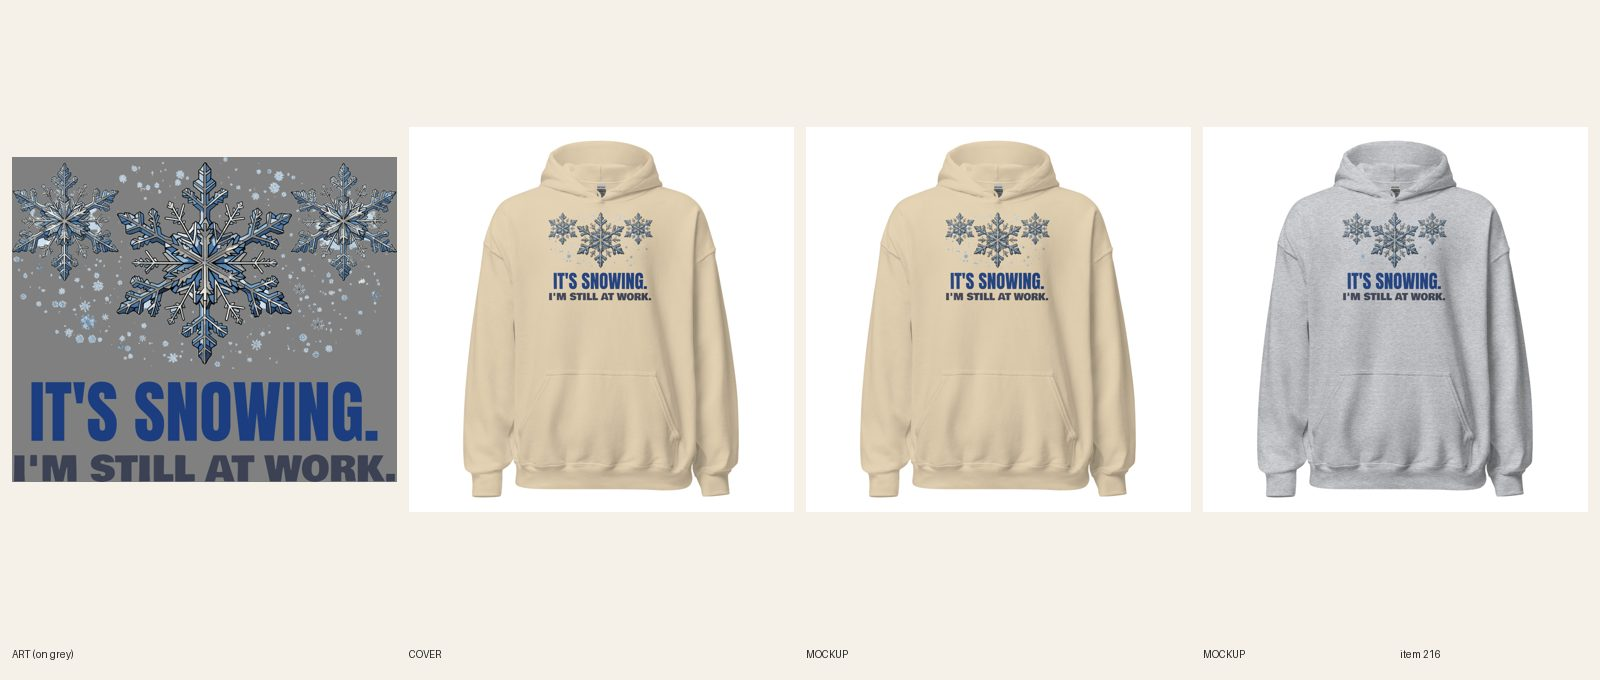
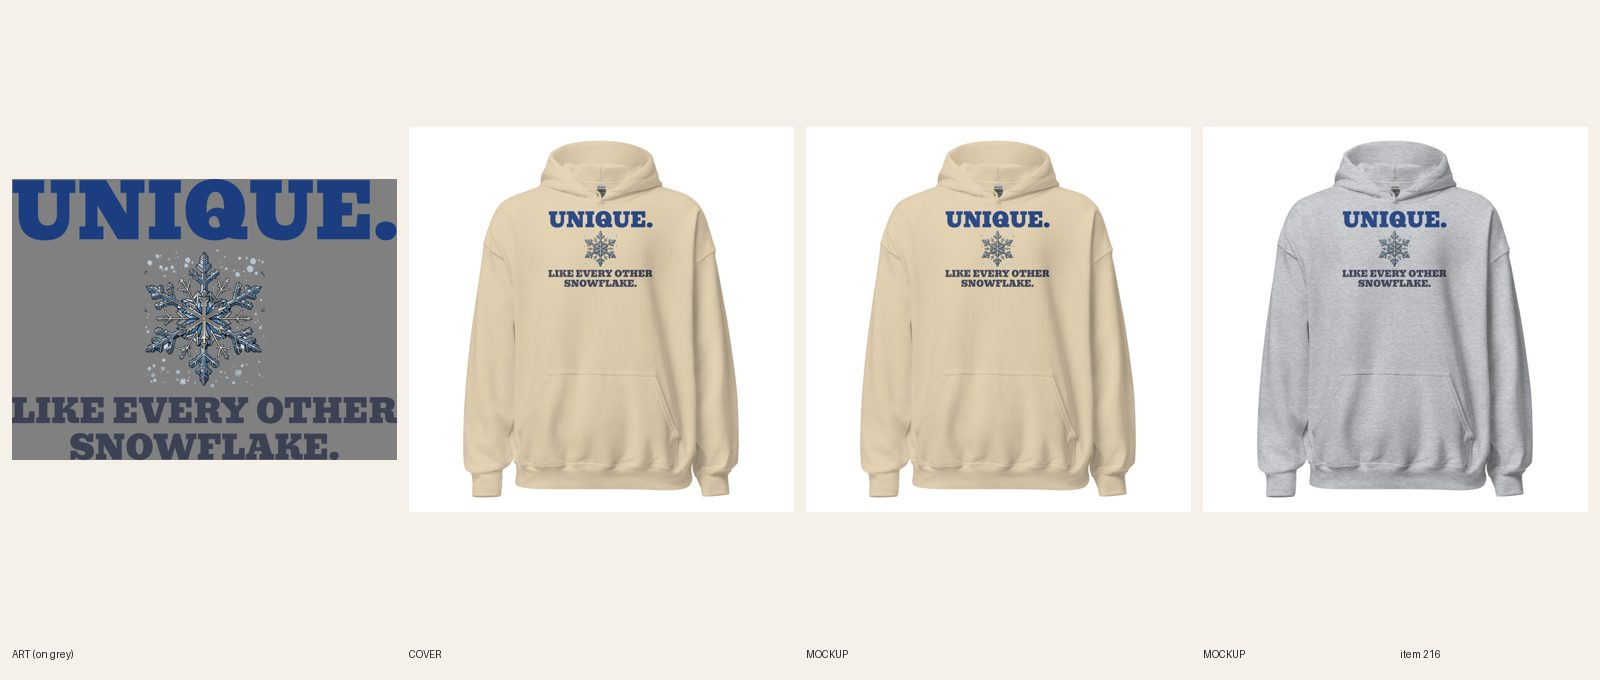
[A] review 216 (redo)
Claude-Session: https://claude.ai/code/session_01LaaEYpKaSBZd9opL7Tpo7i

diff --git a/docs/pipeline/216-christmas-hoodie-hello-winter-snowflakes.md b/docs/pipeline/216-christmas-hoodie-hello-winter-snowflakes.md
@@ -1,4 +1,4 @@
-status: BUILDING [A] 2026-10-20 11:42 UTC
+status: REVIEW
 lane: A
 type: twin
 id: 216
@@ -30,3 +30,4 @@ handle: womens-christmas-hello-winter-snowflakes-hoodie
 - 2026-10-18 17:22 UTC director: QUALITY RESET grade C (new line + type), REDO. The product stays ACTIVE (same handle, URL, title keyword). 1. Line (R3.12, quality-reset 'Lines'): "Hello Winter": Seasonal greeting, no joke; script-only type. Write 5 candidates, keep the one a stranger laughs at in 3 seconds without backstory; kill lines that only describe the picture; if none of the 5 is funny, PARK it. 2. Quality reset type bar (docs/backlog/quality-reset.md, 'The new bar'): headline at least 90% of the art width, heavy, colors pulled from the art; second line at least 45% of the headline's height, never a thin script on a dark or mid garment; use the lettering as a shape (arch, stacked lockup, words breaking into the art), not a plain bar above and a script line below; no font used on more than 1 in 6 of the last 30 designs. 3. Keep the art if it carries the new line, else one new illustration (R4/R5). New print means a new cover per R6.10, copy line one rewritten for the new joke (R8.3), and a fresh review sheet (R7.7). While quality-reset.md says PAUSED, only lane A builds, and only the samples step 2 names.
 - 2026-10-20 02:48 UTC builder [A]: REDO grade C done (new line + type). Line: IT'S SNOWING. / I'M STILL AT WORK. (5 candidates; the relatable adult-snow-day one kept). Same three-snowflake art (old script line cropped off, 3600x1980, scaled to 3250 wide), Anton headline (91% of art width) in blue + Bowlby One second line (46% of headline height, slate), lockup 3250x2792, FW 1500 TOP 0. One file for Sand and Sport Grey (dark ink only, no cream fill, so no light-file split): 1090116144. Back logo 1080398177 kept. Relinked 12/12 verified. 2 fronts replaced in place (fileUpdate, alts updated), phone-size read ok on Sand and Sport Grey. Copy: Story line one + art sentence + FAQ 1 + FAQ 2 updated, SEO title/meta updated, Dec 8 FAQ kept, no R8.3 opener. Cover: handle added to retired-covers.json (plain product shot). fal $0. audit --handle PASS 0 warn; astro build ok. Sheet docs/review/216.jpg.
 - 2026-10-20 03:20 UTC director: REDO from docs/review/216.jpg (line + art shape; keep the product ACTIVE, handle unchanged). 1. R3.13: IT'S SNOWING. / I'M STILL AT WORK. is a statement plus a mild aside; side by side with 'Plot Twist: I Stayed In', 'Politely, No.' and 'Oops. Anyway.' it is weaker, and the snowflakes play no part in the joke. Write 5 lines where the snowflake art carries the twist (directions: 'Unique. Like Every Other Snowflake.', 'Let It Snow. Somewhere Else.', 'Cold Outside. Colder Personality.'), keep the one a stranger grins at in 3 seconds, or PARK it if none beats the references. 2. Quality-reset type bar: the lockup is two plain condensed bars under a row of flakes; use the lettering as a shape (arched over the big flake, or flakes falling into a stacked lockup), headline heavy and at least 90% of the art width, not Anton again. 3. R5.3.1/R5.3.2: three flakes in a row with scattered dots reads as clip-art and makes a short, wide print; give the art one shape with the type. No fal needed unless the art changes; plain product shot stays (R6.11).
+- 2026-10-20 12:24 UTC builder [A]: REDO 2 (director 2026-10-20 03:20: statement plus mild aside, flakes play no part in the joke, three flakes in a row = clip-art) done. Five lines where the snowflake carries the twist: UNIQUE. / LIKE EVERY OTHER SNOWFLAKE. (kept, the director's own direction), LET IT SNOW. SOMEWHERE ELSE., COLD OUTSIDE. COLDER PERSONALITY., ONE OF A KIND. LIKE ALL THE OTHERS., MELTING. DON'T TOUCH. Art changed to ONE shape: the big center snowflake only, cropped from the live print (no fal, 1700x1940, 1009 px wide in the lockup). Layout (cards 7h, 7k, scripts/_a_lockup2.py): UNIQUE. above the flake (Bevan, not Anton), LIKE EVERY OTHER / SNOWFLAKE. stacked below at one size: "headline 3221 px / punch 3231 px" (punch wider), "type 968 of 2360 px" = 41% of the print height; blue + slate, one dark-ink file on Sand and Sport Grey: 1090347184; lockup 3231x2360, FW 1500 TOP 0. Relinked 12/12 verified; 2 fronts replaced in place. Title now "Women's Christmas – Unique, Like Every Other Snowflake Hoodie" (card 7i), SEO title/meta, line one, art sentence, FAQ updated; handle unchanged. Plain product shot kept. fal $0. audit PASS; build ok.

diff --git a/docs/intake-log.md b/docs/intake-log.md
@@ -1,6 +1,7 @@
 RUNNING director since 2026-10-20 12:17 UTC
 RUNNING lane B since 2026-10-20 12:07 UTC
 2026-10-20 12:22 UTC — [B] Builder run: redid #482 Football Mom tee round 2 (apostrophe fixed, caption cut, headline 99% width, both punch lines one size, 100% punch/headline, 24/24 on file 1090344550, 4 fronts replaced in place). REVIEW. fal $0. Lock released.
+2026-10-20 12:24 UTC — [A] Builder run: redid #216 Women's Christmas snowflake hoodie again (UNIQUE. / LIKE EVERY OTHER SNOWFLAKE., one flake, type 41% of the print, new title). REVIEW. fal $0.
 RUNNING lane E since 2026-10-20 12:30 UTC
 2026-10-20 12:15 UTC — [A] Builder run: redid #586 Women's Christmas Capybara tee again (ported I'M NOT STUCK. / I'M DECORATED., headline above, stacked punch below, type 41% of the print, new title). REVIEW. fal $0.
 2026-10-20 11:46 UTC — [H] Helper run: Telegram inbox empty (getUpdates returned 0 updates; no pause, resume or TikTok links; nothing to consume). Audit 610 live products: 0 errors, 37 warnings left alone; committed docs/cohesion-audit.md and .json (npm ci first). Category check: 0 products without a Shopify category (query empty). Site check: mens-welder-grinder-and-paint-department-hoodie, mens-electrician-its-probably-the-breaker-graphic-tee, mens-plumber-not-looking-at-your-sink-graphic-tee all 200. Stuck-work: lane A RUNNING line from 02:28 UTC is still open (lane A committed within the hour per the 10:49 run; alerted once at 10:49, no repeat sent). Nothing BUILDING over 3h found. Daily summary not due (before 12:00 UTC). Lock released.
